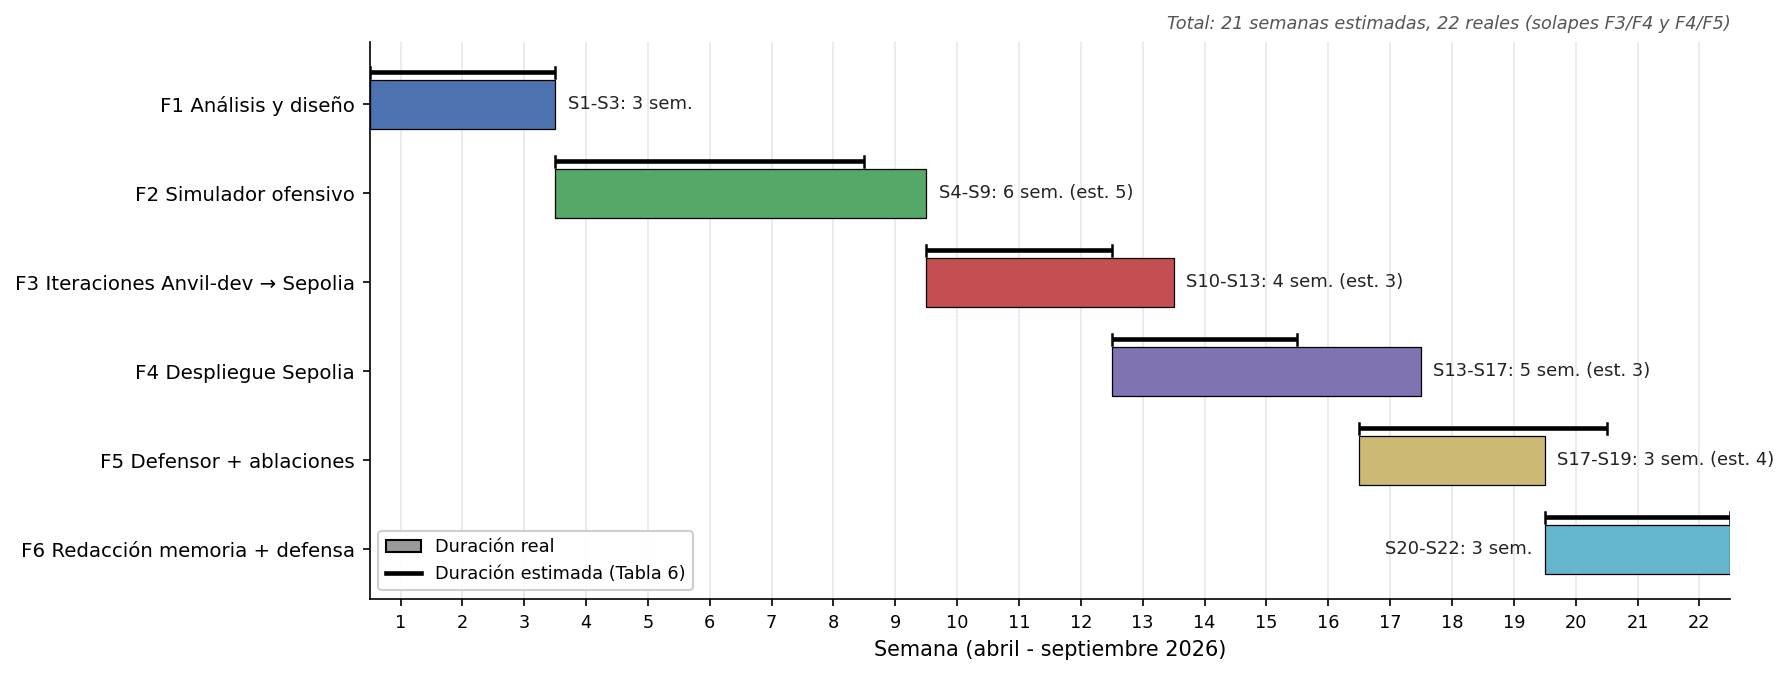
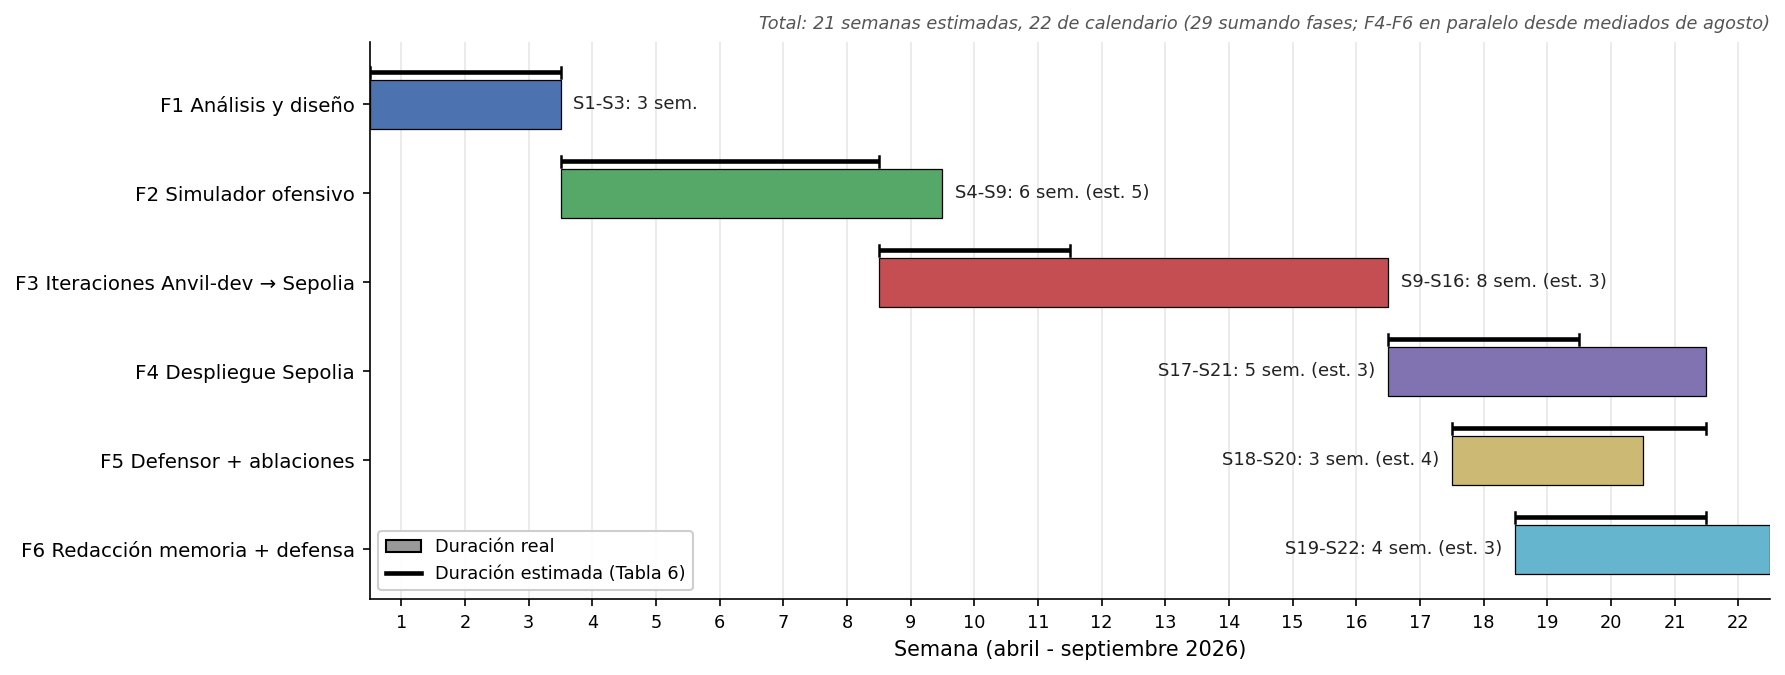
tfm: v9 — títulos de tablas/figuras a una línea, Resumen/Abstract a una página, Tabla 6 y Gantt con el calendario real (F3 jun-ago, F4-F6 en paralelo desde mediados de agosto)

diff --git a/scripts/figures/gen_gantt_v2.py b/scripts/figures/gen_gantt_v2.py
@@ -13,10 +13,10 @@ OUT = Path(__file__).parent
 phases = [
     ('F1 Análisis y diseño',                 1, 3, 3, '#4c72b0'),
     ('F2 Simulador ofensivo',                4, 6, 5, '#55a868'),
-    ('F3 Iteraciones Anvil-dev → Sepolia',  10, 4, 3, '#c44e52'),
-    ('F4 Despliegue Sepolia',               13, 5, 3, '#8172b2'),
-    ('F5 Defensor + ablaciones',            17, 3, 4, '#ccb974'),
-    ('F6 Redacción memoria + defensa',      20, 3, 3, '#64b5cd'),
+    ('F3 Iteraciones Anvil-dev → Sepolia',   9, 8, 3, '#c44e52'),
+    ('F4 Despliegue Sepolia',               17, 5, 3, '#8172b2'),
+    ('F5 Defensor + ablaciones',            18, 3, 4, '#ccb974'),
+    ('F6 Redacción memoria + defensa',      19, 4, 3, '#64b5cd'),
 ]
 fig, ax = plt.subplots(figsize=(12, 4.6), dpi=150)
 for i, (lab, s, real, est, col) in enumerate(phases):
@@ -38,7 +38,7 @@ for sp in ('top', 'right'): ax.spines[sp].set_visible(False)
 ax.legend(handles=[Patch(facecolor='#999999', edgecolor='black', label='Duración real'),
                    Line2D([0], [0], color='black', linewidth=2.2, label='Duración estimada (Tabla 6)')],
           loc='lower left', fontsize=8.5, framealpha=0.95)
-ax.set_title('Total: 21 semanas estimadas, 22 reales (solapes F3/F4 y F4/F5)', loc='right', fontsize=8.5, color='#555555', style='italic')
+ax.set_title('Total: 21 semanas estimadas, 22 de calendario (29 sumando fases; F4-F6 en paralelo desde mediados de agosto)', loc='right', fontsize=8.5, color='#555555', style='italic')
 fig.tight_layout()
 fig.savefig(OUT / 'fig3_gantt_v2.png', dpi=150, bbox_inches='tight', facecolor='white')
 print('Wrote', OUT / 'fig3_gantt_v2.png')
